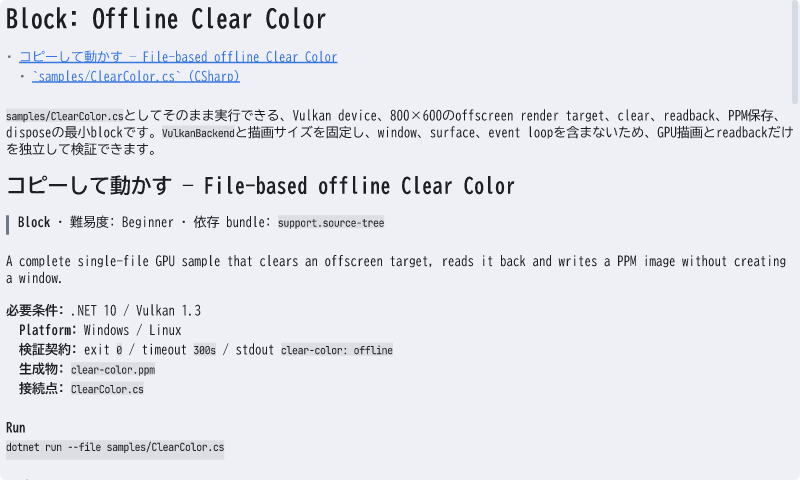
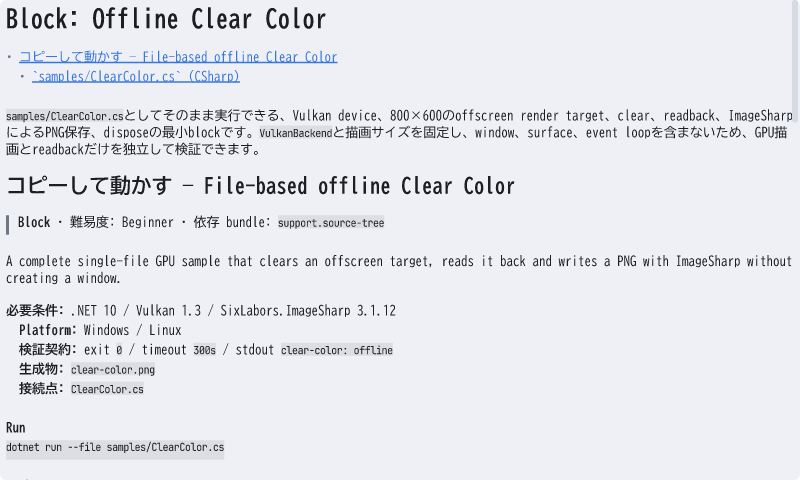
Deploy preview for PR 22 🛫

diff --git a/pr-preview/pr-22/stories/learn-rendering-basics-clearcolor.html b/pr-preview/pr-22/stories/learn-rendering-basics-clearcolor.html
@@ -15,37 +15,39 @@
 <p>shader、vertex buffer、graphics pipeline、surface、presentは使いません。処理は次の順です。</p>
 <pre><code class="language-text">GpuDevice → offscreen render targetをclear
           → host-mapped bufferへreadback
-          → clear-color.ppmへ保存
+          → ImageSharpでclear-color.pngへ保存
 </code></pre>
-<p><code>BeginRendering</code>のclear値だけでRGBA8 render targetを塗り、<code>ColorOutput → Copy</code> barrier後に<code>CopyTextureToBuffer</code>でCPU可視bufferへreadbackします。出力は汎用的に確認できるbinary PPMです。</p>
+<p><code>BeginRendering</code>のclear値だけでRGBA8 render targetを塗り、<code>ColorOutput → Copy</code> barrier後に<code>CopyTextureToBuffer</code>でCPU可視bufferへreadbackします。画像保存は手書きencoderではなく、外部ライブラリの<code>SixLabors.ImageSharp</code>でPNGへ変換します。</p>
 <h2 id="row-pitch">Row pitchと出力</h2>
-<p>描画サイズは教材とsmoke結果を一定にするため <strong>800×600</strong> に固定しています。Vulkanの<code>BufferRowLength</code>へ800 pixelを渡してRGBA8を密にreadbackし、PPMへ保存するときにRGBへ変換します。保存先だけは<code>--output result.ppm</code>で指定できます。</p>
+<p>描画サイズは教材とsmoke結果を一定にするため <strong>800×600</strong> に固定しています。Vulkanの<code>BufferRowLength</code>へ800 pixelを渡してRGBA8を密にreadbackし、<code>Image.LoadPixelData&lt;Rgba32&gt;</code>と<code>SaveAsPng</code>で保存します。保存先だけは<code>--output result.png</code>で指定できます。</p>
 <p>window、event loop、resize、surfaceは後続のinteractive sample側の責務であり、このsampleには含めません。</p>
 <h2 id="file-based-offline-clear-color">コピーして動かす — File-based offline Clear Color</h2>
 <blockquote>
 <p><strong>Block</strong> · 難易度: Beginner · 依存 bundle: <code>support.source-tree</code></p>
 </blockquote>
-<p>A complete single-file GPU sample that clears an offscreen target, reads it back and writes a PPM image without creating a window.</p>
-<p><strong>必要条件:</strong> .NET 10 / Vulkan 1.3
+<p>A complete single-file GPU sample that clears an offscreen target, reads it back and writes a PNG with ImageSharp without creating a window.</p>
+<p><strong>必要条件:</strong> .NET 10 / Vulkan 1.3 / SixLabors.ImageSharp 3.1.12
 <strong>Platform:</strong> Windows / Linux
 <strong>検証契約:</strong> exit <code>0</code> / timeout <code>300s</code> / stdout <code>clear-color: offline</code>
-<strong>生成物:</strong> <code>clear-color.ppm</code>
+<strong>生成物:</strong> <code>clear-color.png</code>
 <strong>接続点:</strong> <code>ClearColor.cs</code></p>
 <p><strong>Run</strong></p>
 <pre><code class="language-powershell">dotnet run --file samples/ClearColor.cs
 </code></pre>
 <p><strong>Smoke test</strong></p>
-<pre><code class="language-powershell">dotnet run --file samples/ClearColor.cs -- --output clear-color.ppm
+<pre><code class="language-powershell">dotnet run --file samples/ClearColor.cs -- --output clear-color.png
 </code></pre>
 <h3 id="samplesclearcolor.cs-csharp"><code>samples/ClearColor.cs</code> (CSharp)</h3>
 <pre><code class="language-csharp">#:project ../src/Luxel.Graphics/Luxel.Graphics.csproj
 #:project ../src/Luxel.Graphics.Vulkan/Luxel.Graphics.Vulkan.csproj
+#:package SixLabors.ImageSharp@3.1.12
 #:property TargetFramework=net10.0
 
 using System.Security.Cryptography;
-using System.Text;
 using Luxel.Graphics;
 using Luxel.Graphics.Vulkan;
+using SixLabors.ImageSharp;
+using SixLabors.ImageSharp.PixelFormats;
 
 const int width = 800;
 const int height = 600;
@@ -69,7 +71,8 @@ try
     }
 
     byte[] rgba = CopyTightlyPacked(readback, stridePixels, width, height);
-    WritePpm(outputPath, rgba, width, height);
+    using (Image&lt;Rgba32&gt; image = Image.LoadPixelData&lt;Rgba32&gt;(rgba, width, height))
+        image.SaveAsPng(outputPath);
     string sha256 = Convert.ToHexStringLower(SHA256.HashData(rgba));
     Console.WriteLine($&quot;clear-color: offline, backend=vulkan, device={device.Name}, size={width}x{height}, output={outputPath}, sha256={sha256}&quot;);
     return 0;
@@ -91,26 +94,6 @@ static byte[] CopyTightlyPacked(GpuBuffer readback, uint stridePixels, int width
     return pixels;
 }
 
-static void WritePpm(string path, ReadOnlySpan&lt;byte&gt; rgba, int width, int height)
-{
-    string? directory = Path.GetDirectoryName(Path.GetFullPath(path));
-    if (!string.IsNullOrEmpty(directory)) Directory.CreateDirectory(directory);
-    using FileStream stream = File.Create(path);
-    stream.Write(Encoding.ASCII.GetBytes($&quot;P6\n{width} {height}\n255\n&quot;));
-    byte[] rgbRow = new byte[checked(width * 3)];
-    for (int y = 0; y &lt; height; y++)
-    {
-        ReadOnlySpan&lt;byte&gt; source = rgba.Slice(checked(y * width * 4), width * 4);
-        for (int x = 0; x &lt; width; x++)
-        {
-            rgbRow[x * 3] = source[x * 4];
-            rgbRow[x * 3 + 1] = source[x * 4 + 1];
-            rgbRow[x * 3 + 2] = source[x * 4 + 2];
-        }
-        stream.Write(rgbRow);
-    }
-}
-
 static string ParseOutput(string[] arguments)
 {
     for (int index = 0; index &lt; arguments.Length; index++)
@@ -118,10 +101,10 @@ static string ParseOutput(string[] arguments)
         if (arguments[index] == &quot;--output&quot; &amp;&amp; index + 1 &lt; arguments.Length) return arguments[index + 1];
         if (arguments[index].StartsWith(&quot;--output=&quot;, StringComparison.Ordinal)) return arguments[index][&quot;--output=&quot;.Length..];
     }
-    return &quot;clear-color.ppm&quot;;
+    return &quot;clear-color.png&quot;;
 }
 </code></pre>
-<details class="sample-bundle"><summary>Run this sample — Block</summary><p>A complete single-file GPU sample that clears an offscreen target, reads it back and writes a PPM image without creating a window.</p><p><strong>Requirements:</strong> .NET 10 / Vulkan 1.3</p><p><strong>Platforms:</strong> Windows / Linux</p><p><strong>Verification:</strong> exit 0, timeout 300s, stdout <code>clear-color: offline</code></p><ul><li><code>samples/ClearColor.cs</code> <span>CSharp</span></li></ul><p><strong>Run</strong></p><pre><code class="language-shell">dotnet run --file samples/ClearColor.cs</code></pre><p><strong>Smoke test</strong></p><pre><code class="language-shell">dotnet run --file samples/ClearColor.cs -- --output clear-color.ppm</code></pre></details><details class="story-source"><summary>Story source</summary><pre><code class="language-csharp">[Story(&quot;Learn/Rendering/Basics/ClearColor&quot;, Order = 2, SampleBundle = &quot;rendering.clear-color&quot;)]
+<details class="sample-bundle"><summary>Run this sample — Block</summary><p>A complete single-file GPU sample that clears an offscreen target, reads it back and writes a PNG with ImageSharp without creating a window.</p><p><strong>Requirements:</strong> .NET 10 / Vulkan 1.3 / SixLabors.ImageSharp 3.1.12</p><p><strong>Platforms:</strong> Windows / Linux</p><p><strong>Verification:</strong> exit 0, timeout 300s, stdout <code>clear-color: offline</code></p><ul><li><code>samples/ClearColor.cs</code> <span>CSharp</span></li></ul><p><strong>Run</strong></p><pre><code class="language-shell">dotnet run --file samples/ClearColor.cs</code></pre><p><strong>Smoke test</strong></p><pre><code class="language-shell">dotnet run --file samples/ClearColor.cs -- --output clear-color.png</code></pre></details><details class="story-source"><summary>Story source</summary><pre><code class="language-csharp">[Story(&quot;Learn/Rendering/Basics/ClearColor&quot;, Order = 2, SampleBundle = &quot;rendering.clear-color&quot;)]
 public static Widget ClearColor(StoryContext ctx)
 {
     return DocNew(ctx, $&quot;&quot;&quot;
@@ -140,14 +123,14 @@ public static Widget ClearColor(StoryContext ctx)
     ```text
     GpuDevice → offscreen render targetをclear
               → host-mapped bufferへreadback
-              → clear-color.ppmへ保存
+              → ImageSharpでclear-color.pngへ保存
     ```
 
-    `BeginRendering`のclear値だけでRGBA8 render targetを塗り、`ColorOutput → Copy` barrier後に`CopyTextureToBuffer`でCPU可視bufferへreadbackします。出力は汎用的に確認できるbinary PPMです。
+    `BeginRendering`のclear値だけでRGBA8 render targetを塗り、`ColorOutput → Copy` barrier後に`CopyTextureToBuffer`でCPU可視bufferへreadbackします。画像保存は手書きencoderではなく、外部ライブラリの`SixLabors.ImageSharp`でPNGへ変換します。
 
     ## Row pitchと出力
 
-    描画サイズは教材とsmoke結果を一定にするため **800&#215;600** に固定しています。Vulkanの`BufferRowLength`へ800 pixelを渡してRGBA8を密にreadbackし、PPMへ保存するときにRGBへ変換します。保存先だけは`--output result.ppm`で指定できます。
+    描画サイズは教材とsmoke結果を一定にするため **800&#215;600** に固定しています。Vulkanの`BufferRowLength`へ800 pixelを渡してRGBA8を密にreadbackし、`Image.LoadPixelData&lt;Rgba32&gt;`と`SaveAsPng`で保存します。保存先だけは`--output result.png`で指定できます。
 
     window、event loop、resize、surfaceは後続のinteractive sample側の責務であり、このsampleには含めません。
 

diff --git a/pr-preview/pr-22/stories/build-blocks-rendering-offlineclearcolor.html b/pr-preview/pr-22/stories/build-blocks-rendering-offlineclearcolor.html
@@ -6,32 +6,34 @@
 </ul>
 </li>
 </ul>
-<p><code>samples/ClearColor.cs</code>としてそのまま実行できる、Vulkan device、800×600のoffscreen render target、clear、readback、PPM保存、disposeの最小blockです。<code>VulkanBackend</code>と描画サイズを固定し、window、surface、event loopを含まないため、GPU描画とreadbackだけを独立して検証できます。</p>
+<p><code>samples/ClearColor.cs</code>としてそのまま実行できる、Vulkan device、800×600のoffscreen render target、clear、readback、ImageSharpによるPNG保存、disposeの最小blockです。<code>VulkanBackend</code>と描画サイズを固定し、window、surface、event loopを含まないため、GPU描画とreadbackだけを独立して検証できます。</p>
 <h2 id="file-based-offline-clear-color">コピーして動かす — File-based offline Clear Color</h2>
 <blockquote>
 <p><strong>Block</strong> · 難易度: Beginner · 依存 bundle: <code>support.source-tree</code></p>
 </blockquote>
-<p>A complete single-file GPU sample that clears an offscreen target, reads it back and writes a PPM image without creating a window.</p>
-<p><strong>必要条件:</strong> .NET 10 / Vulkan 1.3
+<p>A complete single-file GPU sample that clears an offscreen target, reads it back and writes a PNG with ImageSharp without creating a window.</p>
+<p><strong>必要条件:</strong> .NET 10 / Vulkan 1.3 / SixLabors.ImageSharp 3.1.12
 <strong>Platform:</strong> Windows / Linux
 <strong>検証契約:</strong> exit <code>0</code> / timeout <code>300s</code> / stdout <code>clear-color: offline</code>
-<strong>生成物:</strong> <code>clear-color.ppm</code>
+<strong>生成物:</strong> <code>clear-color.png</code>
 <strong>接続点:</strong> <code>ClearColor.cs</code></p>
 <p><strong>Run</strong></p>
 <pre><code class="language-powershell">dotnet run --file samples/ClearColor.cs
 </code></pre>
 <p><strong>Smoke test</strong></p>
-<pre><code class="language-powershell">dotnet run --file samples/ClearColor.cs -- --output clear-color.ppm
+<pre><code class="language-powershell">dotnet run --file samples/ClearColor.cs -- --output clear-color.png
 </code></pre>
 <h3 id="samplesclearcolor.cs-csharp"><code>samples/ClearColor.cs</code> (CSharp)</h3>
 <pre><code class="language-csharp">#:project ../src/Luxel.Graphics/Luxel.Graphics.csproj
 #:project ../src/Luxel.Graphics.Vulkan/Luxel.Graphics.Vulkan.csproj
+#:package SixLabors.ImageSharp@3.1.12
 #:property TargetFramework=net10.0
 
 using System.Security.Cryptography;
-using System.Text;
 using Luxel.Graphics;
 using Luxel.Graphics.Vulkan;
+using SixLabors.ImageSharp;
+using SixLabors.ImageSharp.PixelFormats;
 
 const int width = 800;
 const int height = 600;
@@ -55,7 +57,8 @@ try
     }
 
     byte[] rgba = CopyTightlyPacked(readback, stridePixels, width, height);
-    WritePpm(outputPath, rgba, width, height);
+    using (Image&lt;Rgba32&gt; image = Image.LoadPixelData&lt;Rgba32&gt;(rgba, width, height))
+        image.SaveAsPng(outputPath);
     string sha256 = Convert.ToHexStringLower(SHA256.HashData(rgba));
     Console.WriteLine($&quot;clear-color: offline, backend=vulkan, device={device.Name}, size={width}x{height}, output={outputPath}, sha256={sha256}&quot;);
     return 0;
@@ -77,26 +80,6 @@ static byte[] CopyTightlyPacked(GpuBuffer readback, uint stridePixels, int width
     return pixels;
 }
 
-static void WritePpm(string path, ReadOnlySpan&lt;byte&gt; rgba, int width, int height)
-{
-    string? directory = Path.GetDirectoryName(Path.GetFullPath(path));
-    if (!string.IsNullOrEmpty(directory)) Directory.CreateDirectory(directory);
-    using FileStream stream = File.Create(path);
-    stream.Write(Encoding.ASCII.GetBytes($&quot;P6\n{width} {height}\n255\n&quot;));
-    byte[] rgbRow = new byte[checked(width * 3)];
-    for (int y = 0; y &lt; height; y++)
-    {
-        ReadOnlySpan&lt;byte&gt; source = rgba.Slice(checked(y * width * 4), width * 4);
-        for (int x = 0; x &lt; width; x++)
-        {
-            rgbRow[x * 3] = source[x * 4];
-            rgbRow[x * 3 + 1] = source[x * 4 + 1];
-            rgbRow[x * 3 + 2] = source[x * 4 + 2];
-        }
-        stream.Write(rgbRow);
-    }
-}
-
 static string ParseOutput(string[] arguments)
 {
     for (int index = 0; index &lt; arguments.Length; index++)
@@ -104,14 +87,14 @@ static string ParseOutput(string[] arguments)
         if (arguments[index] == &quot;--output&quot; &amp;&amp; index + 1 &lt; arguments.Length) return arguments[index + 1];
         if (arguments[index].StartsWith(&quot;--output=&quot;, StringComparison.Ordinal)) return arguments[index][&quot;--output=&quot;.Length..];
     }
-    return &quot;clear-color.ppm&quot;;
+    return &quot;clear-color.png&quot;;
 }
 </code></pre>
-<details class="sample-bundle"><summary>Run this sample — Block</summary><p>A complete single-file GPU sample that clears an offscreen target, reads it back and writes a PPM image without creating a window.</p><p><strong>Requirements:</strong> .NET 10 / Vulkan 1.3</p><p><strong>Platforms:</strong> Windows / Linux</p><p><strong>Verification:</strong> exit 0, timeout 300s, stdout <code>clear-color: offline</code></p><ul><li><code>samples/ClearColor.cs</code> <span>CSharp</span></li></ul><p><strong>Run</strong></p><pre><code class="language-shell">dotnet run --file samples/ClearColor.cs</code></pre><p><strong>Smoke test</strong></p><pre><code class="language-shell">dotnet run --file samples/ClearColor.cs -- --output clear-color.ppm</code></pre></details><details class="story-source"><summary>Story source</summary><pre><code class="language-csharp">[Story(&quot;Build/Blocks/Rendering/OfflineClearColor&quot;, Order = 0, SampleBundle = &quot;rendering.clear-color&quot;)]
+<details class="sample-bundle"><summary>Run this sample — Block</summary><p>A complete single-file GPU sample that clears an offscreen target, reads it back and writes a PNG with ImageSharp without creating a window.</p><p><strong>Requirements:</strong> .NET 10 / Vulkan 1.3 / SixLabors.ImageSharp 3.1.12</p><p><strong>Platforms:</strong> Windows / Linux</p><p><strong>Verification:</strong> exit 0, timeout 300s, stdout <code>clear-color: offline</code></p><ul><li><code>samples/ClearColor.cs</code> <span>CSharp</span></li></ul><p><strong>Run</strong></p><pre><code class="language-shell">dotnet run --file samples/ClearColor.cs</code></pre><p><strong>Smoke test</strong></p><pre><code class="language-shell">dotnet run --file samples/ClearColor.cs -- --output clear-color.png</code></pre></details><details class="story-source"><summary>Story source</summary><pre><code class="language-csharp">[Story(&quot;Build/Blocks/Rendering/OfflineClearColor&quot;, Order = 0, SampleBundle = &quot;rendering.clear-color&quot;)]
 public static Widget OfflineClearColor(StoryContext ctx) =&gt; DocNew(ctx, $&quot;&quot;&quot;
     # Block: Offline Clear Color
 
-    `samples/ClearColor.cs`としてそのまま実行できる、Vulkan device、800&#215;600のoffscreen render target、clear、readback、PPM保存、disposeの最小blockです。`VulkanBackend`と描画サイズを固定し、window、surface、event loopを含まないため、GPU描画とreadbackだけを独立して検証できます。
+    `samples/ClearColor.cs`としてそのまま実行できる、Vulkan device、800&#215;600のoffscreen render target、clear、readback、ImageSharpによるPNG保存、disposeの最小blockです。`VulkanBackend`と描画サイズを固定し、window、surface、event loopを含まないため、GPU描画とreadbackだけを独立して検証できます。
 
     {SampleBundle(&quot;rendering.clear-color&quot;)}
     &quot;&quot;&quot;, toc: true);</code></pre></details></article>
